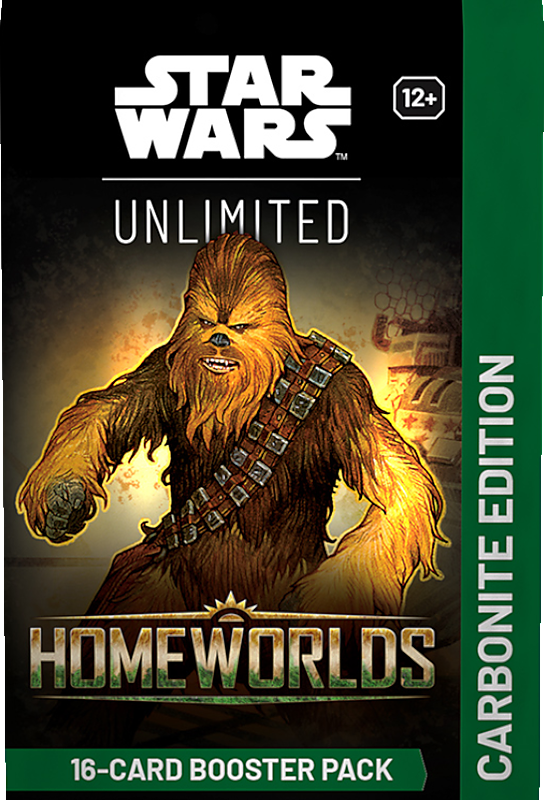
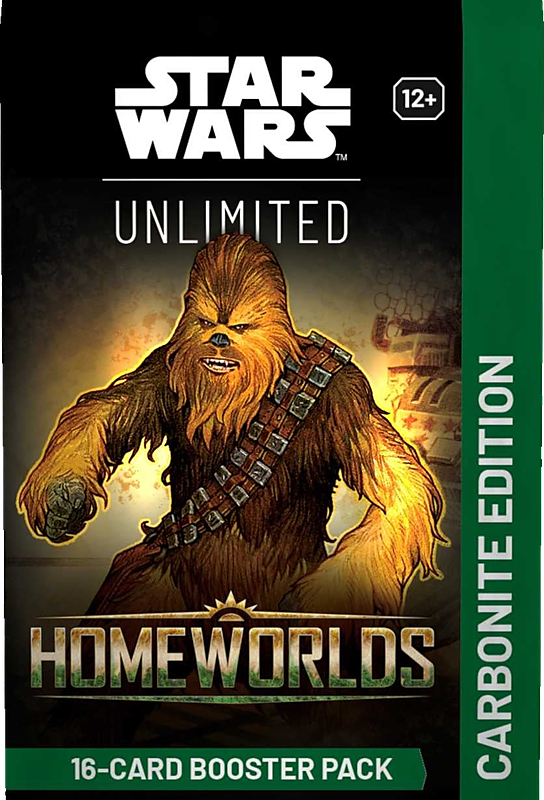
feat(hmw): re-source Homeworlds pack art from the 2000px product renders
Asmodee UK's product gallery carries FFG's full-resolution single-pack
flats (FFGSWH0902_2/_3, FFGSWH0906_2) at 2000x2000 — the earlier art came
from 1024/1200px retailer copies. Re-cut both the Grievous booster and the
Chewbacca Carbonite pack from those. The booster's template also lands on
the same scale as LAW/ASH now (logo box 450px wide instead of 457).

diff --git a/RELEASE_NOTES.md b/RELEASE_NOTES.md
@@ -5,6 +5,7 @@
 ### 🎨 UI Improvements
 
 - **Homeworlds Carbonite packs wear their real art.** The Carbonite booster now opens with its own Chewbacca pack front, framed to match every other set's Carbonite pack.
+- **Homeworlds booster art is sharper.** Both Homeworlds packs are now cut from the full-resolution product renders, so the foil, the star field and the set logo hold up at any size.
 
 ## 09.16.2026
 
